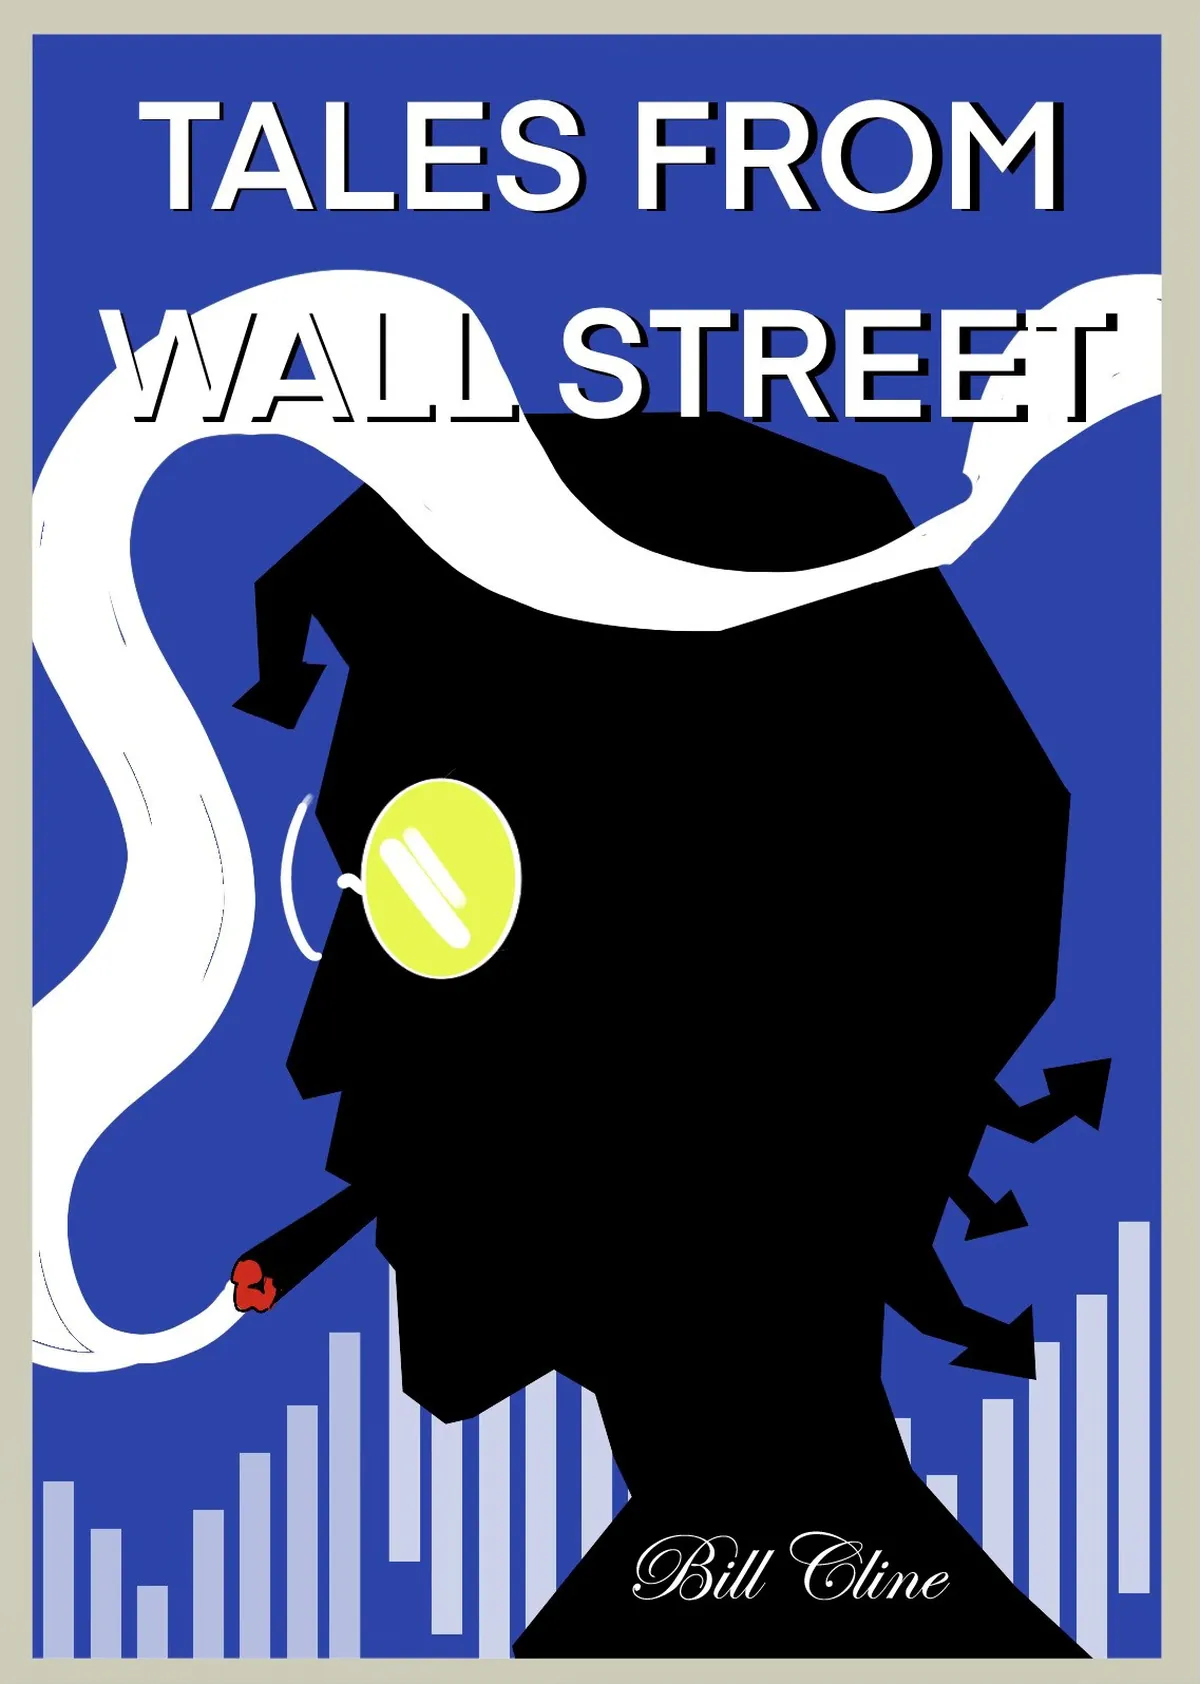
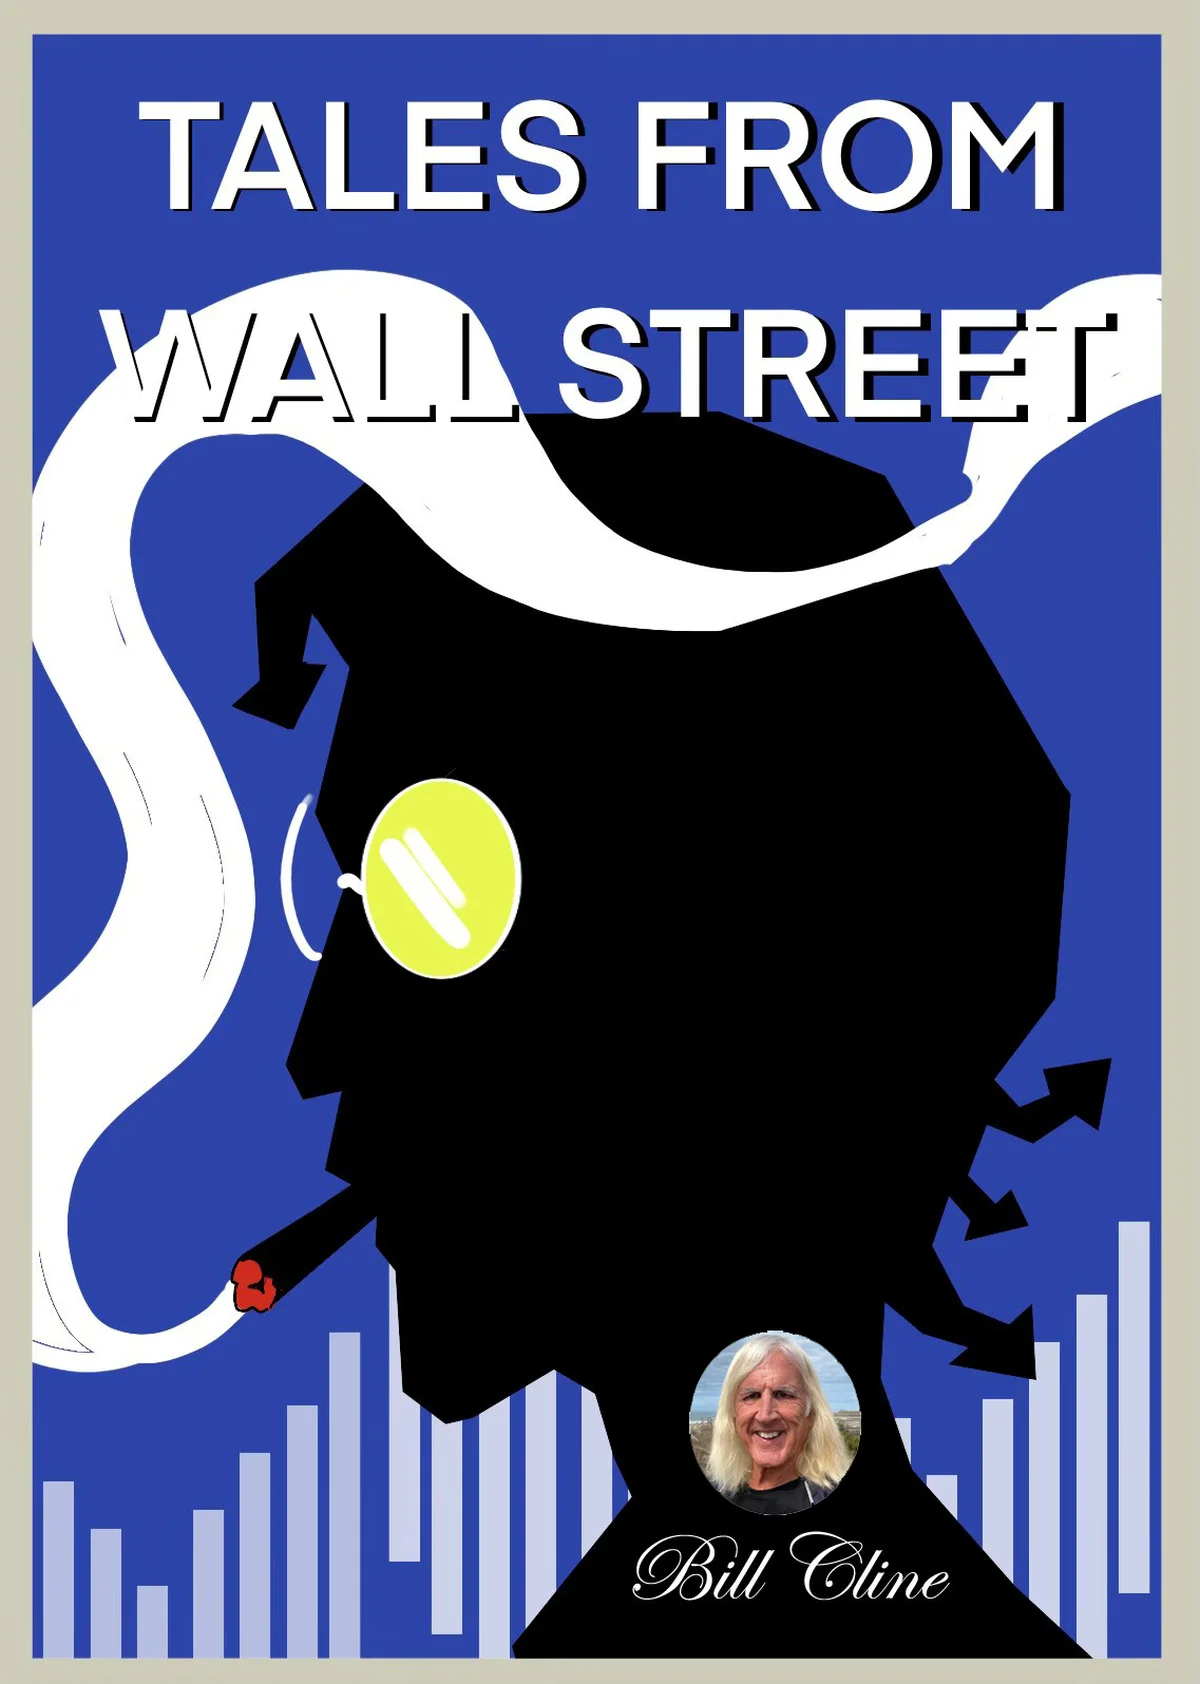
updated cover jpg

Changed region(s): [[0.555, 0.772, 0.74, 0.8955]]

diff --git a/style.css b/style.css
@@ -319,6 +319,28 @@ h2 {
     transform-origin: left;
 }
 
+.book-wrapper {
+    position: relative;
+    display: inline-block;
+    /* Ensure the wrapper respects the constraints of the image */
+    width: fit-content;
+}
+
+.author-overlay {
+    position: absolute;
+    /* Positioning it within the black neck area */
+    bottom: 65px;
+    left: 50%;
+    transform: translateX(-50%);
+    width: 50px;
+    height: 50px;
+    border-radius: 50%;
+    border: 2px solid var(--white);
+    box-shadow: 0 4px 8px rgba(0, 0, 0, 0.3);
+    z-index: 10;
+    object-fit: cover;
+}
+
 /* --- TICKER TAPE --- */
 .ticker-wrap {
     width: 100%;
@@ -489,11 +511,11 @@ h2 {
     background-size: cover;
     border: 4px solid var(--accent);
 
-@media (min-width: 1000px) {
-    .author-img {
-        background-image: url('images/image-1600.jpg');
+    @media (min-width: 1000px) {
+        .author-img {
+            background-image: url('images/image-1600.jpg');
+        }
     }
-}
 }
 
 .author-bio-link {
